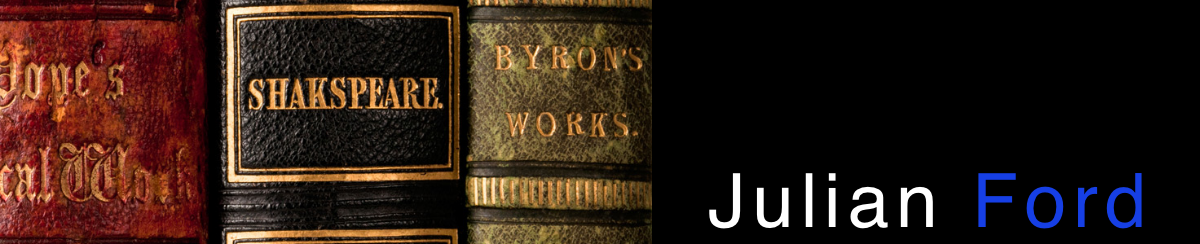
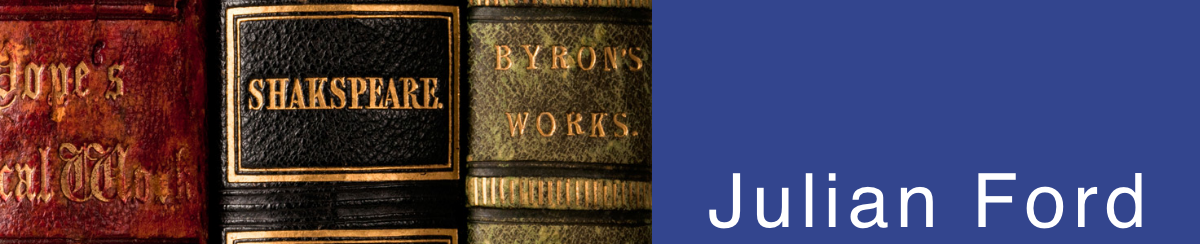
footer

diff --git a/resume/index.html b/resume/index.html
@@ -28,9 +28,7 @@
                   <a class="nav-link" href="#education">Education</a>
                 </li>
                 <li class="nav-item">
-                  <a class="nav-link" href="#skills" role="button" data-bs-toggle="dropdown" aria-expanded="false">
-                    Skills
-                  </a>
+                  <a class="nav-link" href="#skills" role="button" data-bs-toggle="dropdown" aria-expanded="false">Skills</a>
                 </li>
               </ul>
               <form class="d-flex" role="search">
@@ -68,27 +66,7 @@
     </div>
   </div>
     <!-- Hero end-->
-    <!--icons-->
-<div class="row">
-  <div class="col-md-3">
-    <i class="bi bi-envelope"></i>
-    <h3><a href="mailto:fordj0002@gmail.com" target=_new>Contact</a></h3>
-  </div>
-  <div class="col-md-3">
-    <i class="bi bi-linkedin"></i>
-    <h3><a href="https://www.linkedin.com/in/julian-ford-b86714240/" target=_new>linkedin</a></h3>
-  </div>
-  <div class="col-md-3">
-    <i class="bi bi-twitter-x"></i>
-    <h3><a href="https://x.com/JulianFord_" target=_new>Twitter/X</a></h3>
-  </div>
-  <div class="col-md-3">
-    <i class="bi bi-github"></i>
-    <h3><a href="https://github.com/Julian-Ford-12/" target=_new>Github</a></h3>
-  </div>
-</div> 
-    <div class="sectionheader" id="experience">Experience</div> 
-    
+
      <!--Hero attempt
      <div class="px-4 py-5 my-5 text-center">
       <div class="col-lg-6 mx-auto">
@@ -101,6 +79,8 @@
         </div>
       </div>
     </div>-->
+
+    <div class="sectionheader" id="education">Experience</div> 
 
     <div class="jobtitle">Barista</div> 
     <div class="organization">Dolcezza Coffee and Gelato</div> 
@@ -170,26 +150,23 @@
       <li>Teaching: one year of tutoring experience</li>
       <li>Language: Sufficient in French</li>
     </ul>
-
-<!--icons-->
-<div class="row">
-  <div class="col-md-3">
-    <i class="bi bi-envelope"></i>
-    <h3><a href="mailto:fordj0002@gmail.com" target=_new>Contact</a></h3>
-  </div>
-  <div class="col-md-3">
-    <i class="bi bi-linkedin"></i>
-    <h3><a href="https://www.linkedin.com/in/julian-ford-b86714240/" target=_new>linkedin</a></h3>
-  </div>
-  <div class="col-md-3">
-    <i class="bi bi-twitter-x"></i>
-    <h3><a href="https://x.com/JulianFord_" target=_new>Twitter/X</a></h3>
-  </div>
-  <div class="col-md-3">
-    <i class="bi bi-github"></i>
-    <h3><a href="https://github.com/Julian-Ford-12/" target=_new>Github</a></h3>
-  </div>
-</div> 
-</body>
 </div>
+<div class="footer">
+  <!--icons-->
+  <div class="row">
+    <div class="col-md-3">
+      <a href="mailto:fordj0002@gmail.com" class="og_color" target="new"> <i class="bi bi-envelope"></i></a>
+    </div>
+    <div class="col-md-3">
+      <a href="https://www.linkedin.com/in/julian-ford-b86714240/" class="og_color" target=_new><i class="bi bi-linkedin"></i></a>
+    </div>
+    <div class="col-md-3">
+      <a href ="https://x.com/JulianFord_" class="og_color" target=_new> <i class="bi bi-twitter-x"></i></a>
+    </div>
+    <div class="col-md-3">
+      <a href="https://github.com/Julian-Ford-12/" class="og_color" target=_new><i class="bi bi-github"></i></a>
+    </div>
+  </div>
+  </div> 
+</body>
 </html>

diff --git a/resume/style.css b/resume/style.css
@@ -9,7 +9,11 @@
 }
 .col-md-3{
     text-align: center;
+    color: white;
 }
+.og_color {
+    color:inherit;
+ }
 .bi-envelope{
     font-size: 4em;
 }
@@ -32,7 +36,7 @@ BODY {
     width:100%;
     max-width: 1200px;
     margin: 0px auto;
-    padding-bottom:50px;
+    padding-bottom:25px;
 }
 /*change h1 here right? Clarify with professor next class */
 #name {
@@ -100,9 +104,13 @@ strong {
     text-align: center;
     margin-top: 20px;
 }
-/*can't get this guy to work...*/
-@media screen and (max-width: 500px) {
-    #new_title {
-        background-color: teal;
-    }
+.footer{
+    background-color:#33458e;
+    width: 100%;
 }
+/*can't get this guy to work...*/
+@media screen and (max-width: 480px) {
+    #new_title{
+        color: teal;
+    }
+   }
